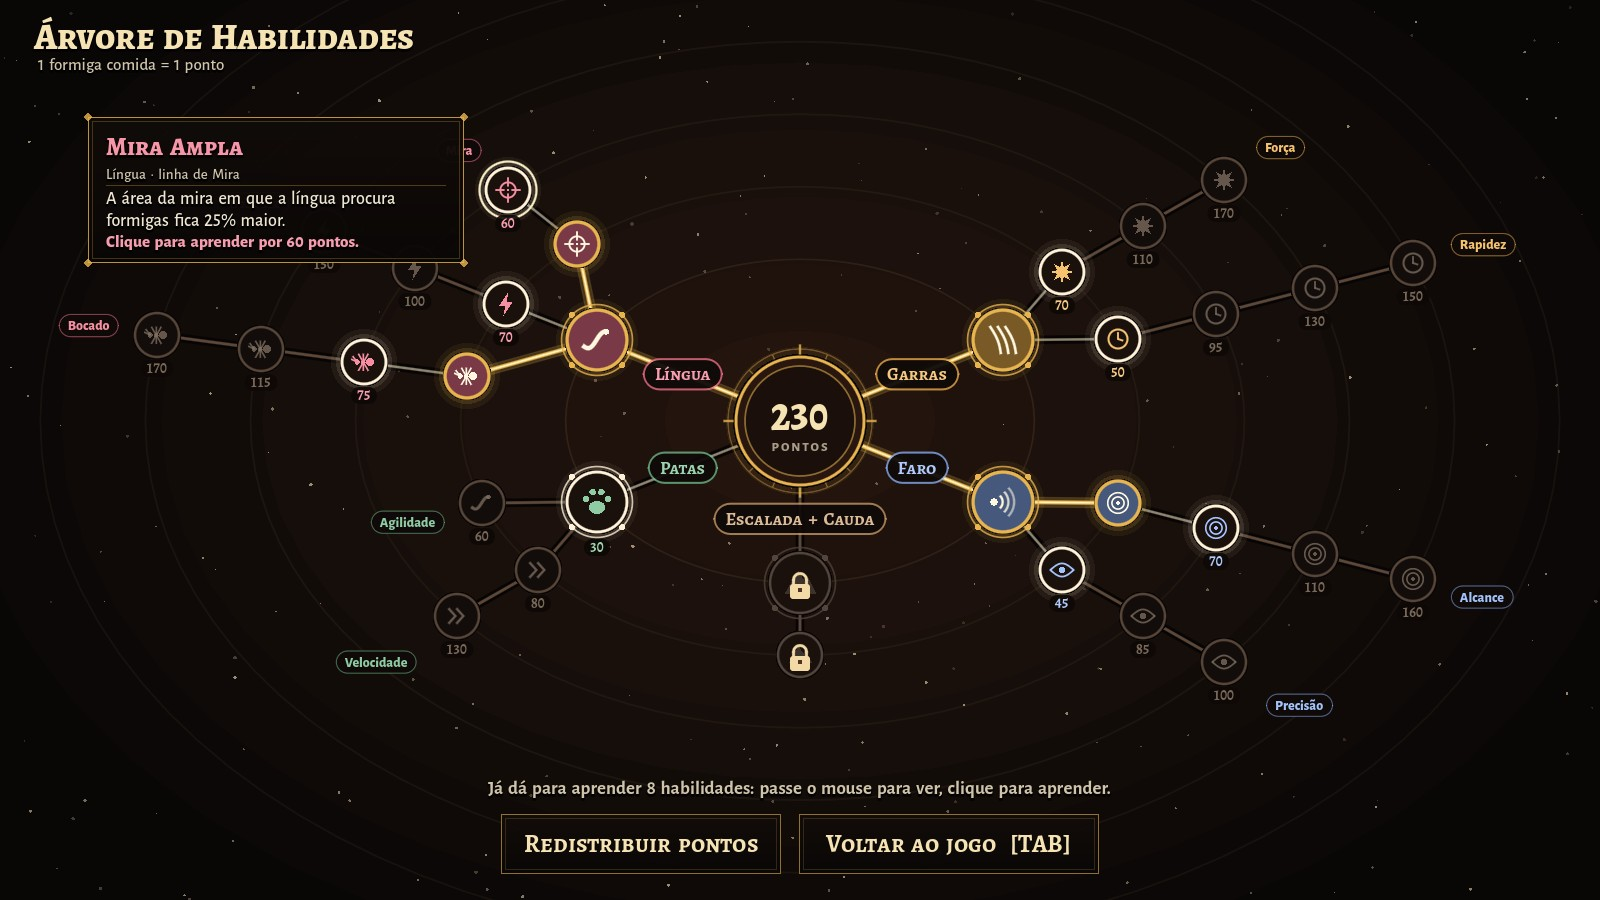
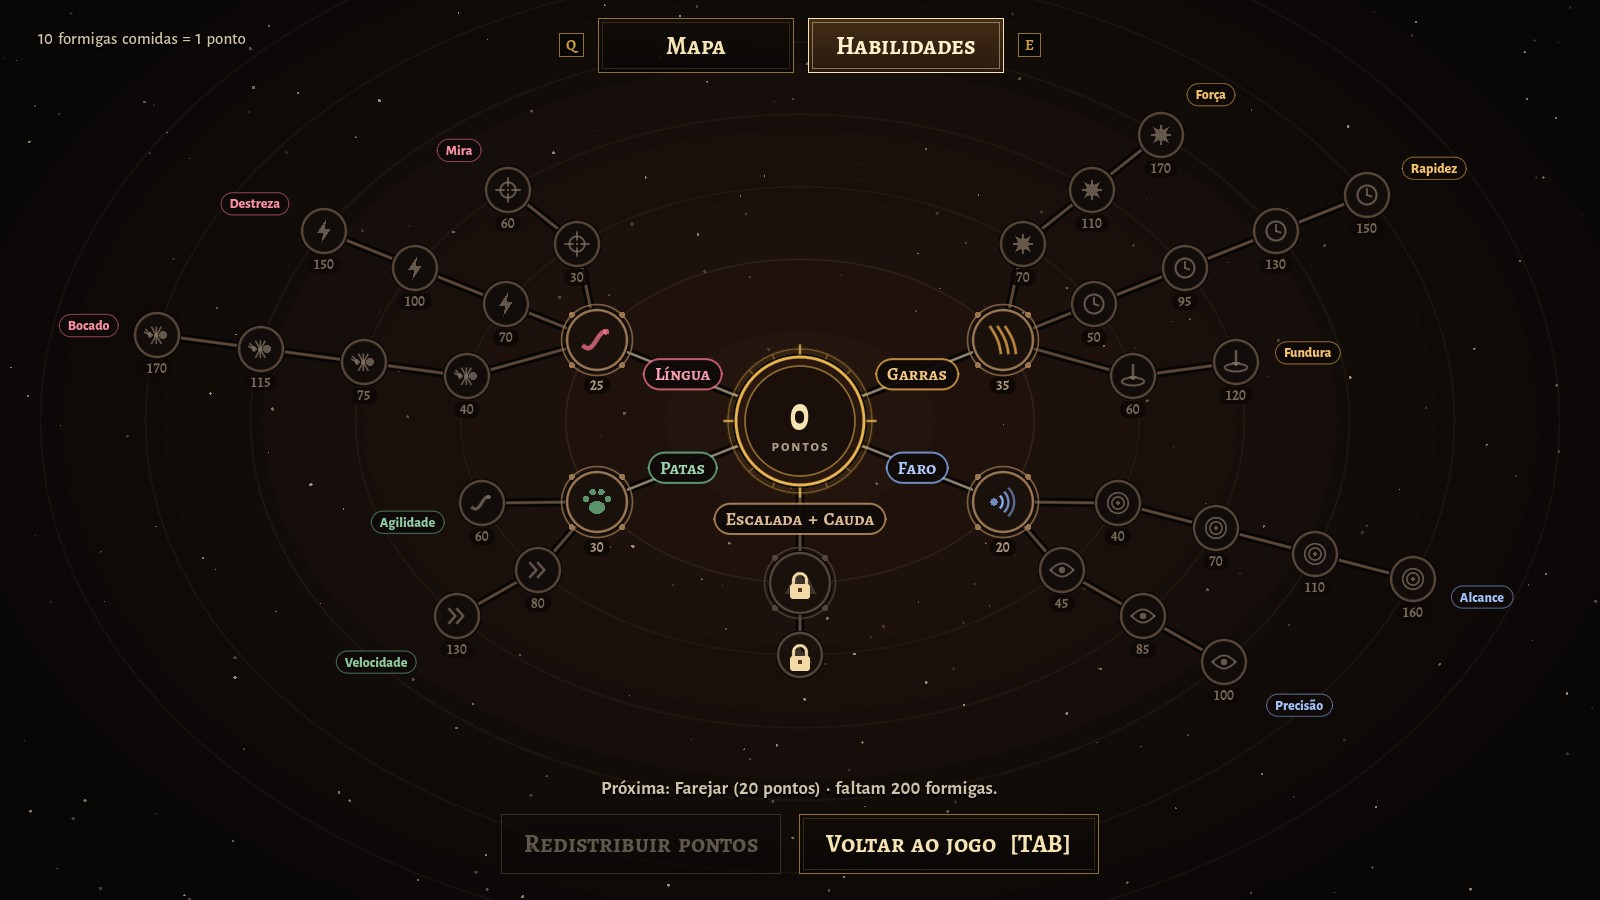
Refresh the README screenshots
New captures of the ant highway on a trail, the opened queen trench,
the HUD with achievement cards and hints, the TAB map and the skills
tab. The old nest screenshot is replaced by the trench one.

Claude-Session: https://claude.ai/code/session_01PK3zBhGKGNdhTPcPbN78xy

diff --git a/README.md b/README.md
@@ -15,8 +15,9 @@ produção, os protótipos e as decisões, num lugar só.
 
 | | |
 |---|---|
-| ![Farejando formigas na trilha: elas brilham através do capim](docs/screenshots/trilha.jpg) | ![Em cima de um formigueiro grande, com uma câmara aberta](docs/screenshots/formigueiro.jpg) |
-| ![Árvore de habilidades da demo](docs/screenshots/arvore.jpg) | ![Acordando na caverna, com o cupinzeiro gigante lá longe](docs/screenshots/caverna.jpg) |
+| ![Estrada de formigas na trilha: grupos de 10, muitas carregando folhas](docs/screenshots/trilha.jpg) | ![A vala da rainha aberta no pé de um formigueiro grande, cheia de formigas](docs/screenshots/vala.jpg) |
+| ![HUD com cartões de conquista, o resultado do faro e as dicas de controle](docs/screenshots/hud.jpg) | ![Mapa no TAB, colorido onde você já andou](docs/screenshots/mapa.jpg) |
+| ![Árvore de habilidades, na aba ao lado do mapa](docs/screenshots/arvore.jpg) | ![Acordando na caverna, com o cupinzeiro gigante lá longe](docs/screenshots/caverna.jpg) |
 
 > Capturas feitas em um servidor sem placa de vídeo (renderização por software).
 > No seu PC fica igual ou melhor.
